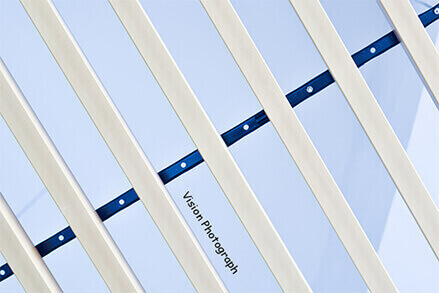
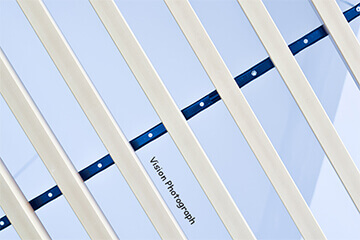
compress pics & repair js

diff --git a/newCss/myCss.min.css b/newCss/myCss.min.css
@@ -1,0 +1,1 @@
+html,body,div,span,applet,object,iframe,h1,h2,h3,h4,h5,h6,p,blockquote,pre,a,abbr,acronym,address,big,cite,code,del,dfn,em,img,ins,kbd,q,s,samp,small,strike,strong,sub,sup,tt,var,b,u,i,center,dl,dt,dd,ol,ul,li,fieldset,form,label,legend,table,caption,tbody,tfoot,thead,tr,th,td,article,aside,canvas,details,embed,figure,figcaption,footer,header,hgroup,menu,nav,output,ruby,section,summary,time,mark,audio,video{margin:0;padding:0;border:0;font-size:100%;font:inherit;vertical-align:baseline}article,aside,details,figcaption,figure,footer,header,hgroup,menu,nav,section{display:block}body{line-height:1}ol,ul{list-style:none}blockquote,q{quotes:none}blockquote:before,blockquote:after,q:before,q:after{content:'';content:none}table{border-collapse:collapse;border-spacing:0}a,a:link,a:hover,a:active{text-decoration:none}*{margin:0;padding:0}html,body{width:100%;height:100%}body{font-family:"Microsoft JhengHei";font-size:100%;color:#999}@keyframes moreMove{0%{bottom:27px}35%{bottom:43px}40%{bottom:37px}90%{bottom:23px}98%{bottom:25px}99%{bottom:26px}100%{bottom:27px}}@keyframes showMask{0%{opacity:0}100%{opacity:1}}.none{display:none}.blur{-webkit-filter:blur(10px);-moz-filter:blur(10px);-o-filter:blur(10px);-ms-filter:blur(10px);filter:blur(10px)}#toTop{display:none;text-decoration:none;position:fixed;bottom:20px;right:2%;overflow:hidden;z-index:999;width:57px;height:67px;border:none;text-indent:100%;background-image:url(../newPicture/myCss2.png);background-position:0 -368px;background-repeat:no-repeat;animation-name:moreMove;-webkit-animation-name:moreMove;animation-duration:1.5s;-webkit-animation-duration:1.5s;animation-fill-mode:both;-webkit-animation-fill-mode:both;animation-iteration-count:infinite;-webkit-animation-iteration-count:infinite}#toTop #toTopHover{width:100%;height:100%;display:block;overflow:hidden;float:right;opacity:0;-moz-opacity:0;filter:alpha(opacity=0)}.container{width:1404px}#header{width:100%;float:left;background-color:#fff;position:relative}#header .topbar{padding:23px 0 13px;color:#2ea7c9;z-index:999}#header .topbar .navbar-left{position:relative;float:left}#header .topbar .navbar-left .nav_logo{width:48px;height:48px;display:block}#header .topbar .navbar-left .nav_logo img{width:100%;height:100%}#header .topbar .navbar-left .rixin_desc{position:absolute;left:60px;top:0;width:52px}#header .topbar .navbar-left .rixin_desc .rixin_name{font-size:25px;margin-top:5px}#header .topbar .navbar-left .rixin_desc .rixin_name2{font-size:15px;margin-left:3px}#header .topbar .navbar-right{position:relative;margin-right:0;float:right !important}#header .topbar .navbar-right .menu{position:relative;display:block;color:#2ea7c9}#header .topbar .navbar-right .menu .nav_menu{font-size:30px;display:inline-block;float:left;margin-top:11px;margin-right:86px}#header .topbar .navbar-right .menu .nav_pub{position:absolute;display:inline-block;right:0;top:20px;width:38px;height:6px;border-radius:7px;background:#2ea7c9;-webkit-transition:all .3s ease;-moz-transition:all .3s ease;-o-transition:all .3s ease;transition:all .3s ease}#header .topbar .navbar-right .menu .nav_pub:before,#header .topbar .navbar-right .menu .nav_pub:after{position:absolute;display:inline-block;left:0;width:38px;height:6px;border-radius:7px;content:'';background:#2ea7c9;-webkit-transition:all .3s ease;-moz-transition:all .3s ease;-o-transition:all .3s ease;transition:all .3s ease;-webkit-transform-origin:5px center 0;-moz-transform-origin:5px center 0;-o-transform-origin:5px center 0;transform-origin:5px center 0}#header .topbar .navbar-right .menu .nav_pub:before{top:-12px}#header .topbar .navbar-right .menu .nav_pub:after{top:12px}#header .topbar .navbar-right .menu img{height:32px;width:38px;display:inline-block;float:left;margin-top:8px}#header .topbar .navbar-right .closer{opacity:1;-moz-opacity:1;-webkit-opacity:1;filter:alpha(opacity=100);-ms-filter:"alpha(opacity=100)"}#header .topbar .navbar-right .closer:hover .nav_pub{opacity:1;-moz-opacity:1;-webkit-opacity:1;filter:alpha(opacity=100);-ms-filter:"alpha(opacity=100)";-webkit-transform-origin:center 4px;-webkit-transform:rotate(180deg);-moz-transform:rotate(180deg);-ms-transform:rotate(180deg);-o-transform:rotate(180deg);transform:rotate(180deg);-webkit-transition:all .3s ease;-moz-transition:all .3s ease;-o-transition:all .3s ease;transition:all .3s ease}#header .topbar .navbar-right .closer .nav_pub{height:0}#header .topbar .navbar-right .closer .nav_pub:after{position:absolute;left:-5px;top:0;width:48px;-webkit-transform-origin:center center 0;-moz-transform-origin:center center 0;-ms-transform-origin:center center 0;-o-transform-origin:center center 0;transform-origin:center center 0;-webkit-transition:all .5s ease;-moz-transition:all .5s ease;-o-transition:all .5s ease;transition:all .5s ease;-webkit-transform:rotate(-45deg);-moz-transform:rotate(-45deg);-o-transform:rotate(-45deg);transform:rotate(-45deg)}#header .topbar .navbar-right .closer .nav_pub:before{position:absolute;left:-5px;top:0;width:48px;-webkit-transform-origin:center center 0;-moz-transform-origin:center center 0;-ms-transform-origin:center center 0;-o-transform-origin:center center 0;transform-origin:center center 0;-webkit-transform:rotate(45deg);-moz-transform:rotate(45deg);-o-transform:rotate(45deg);transform:rotate(45deg);-webkit-transition:all .5s ease;-moz-transition:all .5s ease;-o-transition:all .5s ease;transition:all .5s ease}#header .navbar-gray{background-color:#fbfbfb;color:#838383;border:1px solid #e9e9e9;margin-bottom:0}#header .navbar-gray .navbar-header .icon-bar{background-color:#2ea7c9}#header .navbar-gray .navbar-header .logo_slide{width:1.875rem;height:1.875rem;float:left;margin-top:-0.3rem;display:inline-block}#header .navbar-gray .navbar-header .rixin_name{float:left;margin-left:4px}#header .navbar-gray #navbar li{border-left:1px solid #e9e9e9}#header .navbar-gray #navbar li:last-child{border-right:1px solid #e9e9e9}#header .navbar-gray #navbar li a{color:#838383;font-size:1.3rem;font-weight:bold;padding:1.5rem 1.75rem}#header .hot_img{width:100%;height:24.75rem;position:relative}#header .hot_img .bg{width:100%;height:100%;position:absolute;top:0;left:0}#header .hot_img .motto{width:34.56rem;height:4.06rem;position:absolute;top:50%;left:50%;transform:translate(-50%, -50%)}#news{float:left;width:100%;background-color:#fff}#news .nav{width:41.5rem;margin:3.87rem auto 5.94rem}#news .nav li{float:left;font-size:1.5rem;font-weight:bold;padding:14px 60px;border-right:1px solid #48c5eb}#news .nav li a,#news .nav li:link{color:#999;background-color:transparent;padding:0}#news .nav li a:hover,#news .nav li:link:hover,#news .nav li a:active,#news .nav li:link:active{background-color:transparent;color:#2ea7c9}#news .nav li:last-child{border-right:0}#news .nav .active a{color:#2ea7c9}#news .content{font-size:1.13rem;color:#999;width:100%;float:left}#news .content .part{float:left;margin-bottom:7.375rem}#news .content .part .part_no{font-size:3.43rem;color:#2ea7c9;float:left;width:17%;text-align:right}#news .content .part .part_content{float:left;margin-left:8%;width:75%}#news .content .part .part_content h2{font-size:1.25rem;float:left;font-weight:bold}#news .content .part .part_content h2 a{color:#838383;padding:0}#news .content .part .part_content h2 a:hover{background-color:transparent;color:#064665}#news .content .part .part_content h2 .part_no2{display:none}#news .content .part .part_content ul{float:left;width:100%;margin-top:1.85rem}#news .content .part .part_content ul li{width:100%}#news .content .part .part_content ul li a{display:block;padding:.43rem 0;color:#999;overflow-x:hidden;white-space:nowrap;text-overflow:ellipsis}#news .content .part .part_content ul li a:hover{color:#064665;-webkit-transition:all .3s ease;-moz-transition:all .3s ease;-o-transition:all .3s ease;transition:all .3s ease}#news .content .part .part_content ul li i{width:10px;height:10px;display:block;float:left;margin:4px 15px auto auto;border-radius:50%;border:1px solid #48c5eb;background-color:#fff}#news .content .part .part_content ul li a:visited i{background-color:#48c5eb}#tushuo{width:100%;float:left}#tushuo .pic{width:20%;height:15rem;float:left;overflow:hidden}#tushuo .pic img{width:100%;height:100%}#tushuo .pic img:hover{transform:scale(1.2);-webkit-filter:brightness(.5);-o-filter:brightness(.5);-moz-filter:brightness(.5);filter:brightness(.5);-webkit-transition:all .7s ease;-moz-transition:all .7s ease;-o-transition:all .7s ease;transition:all .7s ease}#tushuo .pic_more{position:relative;background-color:#2ea7c9}#tushuo .pic_more .more{display:block;width:7.5rem;font-size:1.875rem;color:#fff;position:absolute;left:50%;top:50%;transform:translate(-50%, -50%)}#tushuo .pic_more:hover{background-color:#1c6579;-webkit-transition:all .4s ease;-moz-transition:all .4s ease;-o-transition:all .4s ease;transition:all .4s ease}#moreNews{width:100%;float:left}#moreNews h1{font-size:3.5rem;color:#2ea7c9;text-align:center;margin:4rem auto 5rem}#moreNews .content{width:100%;float:left;margin-bottom:5rem;font-size:1.13rem}#moreNews .content .part{margin-bottom:2.3rem}#moreNews .content .part .icon{width:5.125rem;height:5.125rem;float:left;background-position:center center;background-repeat:no-repeat;margin:auto 2rem auto 2.5rem;position:relative}#moreNews .content .part .icon1{background-color:#97cb6f}#moreNews .content .part .icon1 .innerpic{position:absolute;width:49px;height:41px;left:50%;top:50%;transform:translate(-50%, -50%);background-image:url(../newPicture/myCss2.png);background-position:-188px -362px;background-repeat:no-repeat}#moreNews .content .part .icon2{background-color:#b88ccf}#moreNews .content .part .icon2 .innerpic{position:absolute;width:49px;height:47px;left:50%;top:50%;transform:translate(-50%, -50%);background-image:url(../newPicture/myCss2.png);background-position:-184px -313px;background-repeat:no-repeat}#moreNews .content .part .icon3{background-color:#ff953a}#moreNews .content .part .icon3 .innerpic{position:absolute;width:45px;height:51px;left:50%;top:50%;transform:translate(-50%, -50%);background-image:url(../newPicture/myCss2.png);background-position:-184px -260px;background-repeat:no-repeat}#moreNews .content .part .icon4{background-color:#6ac7c1}#moreNews .content .part .icon4 .innerpic{position:absolute;width:52px;height:40px;left:50%;top:50%;transform:translate(-50%, -50%);background-image:url(../newPicture/myCss2.png);background-position:-188px -405px;background-repeat:no-repeat}#moreNews .content .part .part_content{float:left;width:76%;height:5.125rem;position:relative}#moreNews .content .part .part_content h2{color:#838383;font-size:1.25rem;font-weight:bold;float:left;margin-left:1.5rem}#moreNews .content .part .part_content .more{display:block;float:right;color:#838383;font-size:1.25rem;font-weight:bold}#moreNews .content .part .part_content .more:hover{text-decoration:underline;-webkit-transition:all .4s ease;-moz-transition:all .4s ease;-o-transition:all .4s ease;transition:all .4s ease}#moreNews .content .part .part_content ul{position:absolute;left:0;bottom:0;width:100%}#moreNews .content .part .part_content ul li{width:100%}#moreNews .content .part .part_content ul li a{display:block;padding-top:.7rem;overflow:hidden;white-space:nowrap;text-overflow:ellipsis;color:#999}#moreNews .content .part .part_content ul li a:hover{color:#064665;-webkit-transition:all .3s ease;-moz-transition:all .3s ease;-o-transition:all .3s ease;transition:all .3s ease}#moreNews .content .part .part_content ul li i{width:10px;height:10px;display:block;float:left;margin:4px 15px auto auto;background-repeat:no-repeat;background-size:cover}#moreNews .content .part .part_content ul li .i1{border-radius:50%;border:1px solid #97cb6f}#moreNews .content .part .part_content ul li .i2{border-radius:50%;border:1px solid #b88ccf}#moreNews .content .part .part_content ul li .i3{border-radius:50%;border:1px solid #ff953a}#moreNews .content .part .part_content ul li .i4{border-radius:50%;border:1px solid #6ac7c1}#wechat{float:left;width:100%;height:470px;background-color:#f3f3f3;position:relative}#wechat .wrapper{width:1032px;height:380px;overflow:hidden;position:absolute;bottom:0;right:13.9%}#wechat .wrapper .iphone{width:328px;float:left;margin-left:173px}#wechat .wrapper .iphone2{display:none;margin-top:8.3rem}#wechat .wrapper .content{float:right;width:356px}#wechat .wrapper h1{font-size:46px;font-size:2.93rem;line-height:97px;line-height:6.125rem;color:#686868}#wechat .wrapper .btns{margin:40px 50px auto 42px;position:relative}#wechat .wrapper .btns a{display:block;width:64px;height:64px}#wechat .wrapper .btns .sina_btn{float:left;background-image:url(../newPicture/myCss2.png);background-position:-59px -368px;background-repeat:no-repeat}#wechat .wrapper .btns .sina_btn:hover{background-image:url(../newPicture/myCss2.png);background-position:-123px -368px;background-repeat:no-repeat}#wechat .wrapper .btns .qq_btn{margin:0 auto;background-image:url(../newPicture/myCss2.png);background-position:-184px 0;background-repeat:no-repeat}#wechat .wrapper .btns .qq_btn:hover{background-image:url(../newPicture/myCss2.png);background-position:-184px -65px;background-repeat:no-repeat}#wechat .wrapper .btns .wechat_btn{position:absolute;right:0;top:0;background-image:url(../newPicture/myCss2.png);background-position:-184px -130px;background-repeat:no-repeat}#wechat .wrapper .btns .wechat_btn:hover{background-image:url(../newPicture/myCss2.png);background-position:-184px -195px;background-repeat:no-repeat}#wechat .wrapper .sina,#wechat .wrapper .qq,#wechat .wrapper .wechat{display:none;width:620px;float:left}#wechat .wrapper .qq{margin-left:30px}#wechat .wrapper .wechat{margin-left:-5px}#wechat .btns .sina_btn:hover .sina{display:block}#service{width:100%;float:left;background-color:#f6f6f6}#service .container{height:100%;position:relative}#service .row{height:100%;padding-bottom:133px}#service h1{font-size:3.7rem;color:#99a0a5;display:block;margin-top:77px;margin-bottom:125px}#service h1 .h1_sub{display:inline-block;margin-left:10px}#service .h1_sub .pic{width:100px;height:20px;background-image:url(../newPicture/myCss2.png);background-position:-59px -433px}#service .searchCurriculum a,#service .PE a,#service .wordType a,#service .ershou a,#service .lecture a,#service .post a,#service .searchGrade a,#service .evaluate a{display:block;width:118px;height:212px;position:relative;float:right}#service .pic1{display:inline-block;width:90px;height:92px;float:right;background-repeat:no-repeat;transform:scale(1.2)}#service .name{display:block;float:left;margin-left:35px;height:64px;line-height:64px;color:#999;font-size:20px}#service .searchCurriculum .name,#service .searchGrade .name{margin-left:40px}#service .searchCurriculum,#service .PE,#service .wordType,#service .ershou,#service .lecture,#service .post,#service .searchGrade,#service .evaluate{margin-left:5%}#service .searchCurriculum .pic1{opacity:.9;background-image:url(../newPicture/myCss2.png);background-position:0 0;background-repeat:no-repeat;-webkit-transition:all .4s ease;-moz-transition:all .4s ease;-o-transition:all .4s ease;transition:all .4s ease}#service .PE .pic1{opacity:.9;-webkit-transition:all .4s ease;-moz-transition:all .4s ease;-o-transition:all .4s ease;transition:all .4s ease;background-image:url(../newPicture/myCss2.png);background-position:0 -92px;background-repeat:no-repeat}#service .wordType .pic1{opacity:.9;-webkit-transition:all .4s ease;-moz-transition:all .4s ease;-o-transition:all .4s ease;transition:all .4s ease;background-image:url(../newPicture/myCss2.png);background-position:0 -184px;background-repeat:no-repeat}#service .ershou .pic1{opacity:.9;-webkit-transition:all .4s ease;-moz-transition:all .4s ease;-o-transition:all .4s ease;transition:all .4s ease;background-image:url(../newPicture/myCss2.png);background-position:0 -276px;background-repeat:no-repeat}#service .lecture .pic1{opacity:.9;-webkit-transition:all .4s ease;-moz-transition:all .4s ease;-o-transition:all .4s ease;transition:all .4s ease;background-image:url(../newPicture/myCss2.png);background-position:-92px 0;background-repeat:no-repeat}#service .post .pic1{opacity:.9;-webkit-transition:all .4s ease;-moz-transition:all .4s ease;-o-transition:all .4s ease;transition:all .4s ease;background-image:url(../newPicture/myCss2.png);background-position:-92px -92px;background-repeat:no-repeat}#service .searchGrade .pic1{opacity:.9;-webkit-transition:all .4s ease;-moz-transition:all .4s ease;-o-transition:all .4s ease;transition:all .4s ease;background-image:url(../newPicture/myCss2.png);background-position:-92px -184px;background-repeat:no-repeat}#service .evaluate .pic1{opacity:.8;-webkit-transition:all .4s ease;-moz-transition:all .4s ease;-o-transition:all .4s ease;transition:all .4s ease;background-image:url(../newPicture/myCss2.png);background-position:-92px -276px;background-repeat:no-repeat}#service .searchCurriculum a:hover .pic1,#service .PE a:hover .pic1,#service .wordType a:hover .pic1,#service .ershou a:hover .pic1,#service .lecture a:hover .pic1,#service .post a:hover .pic1,#service .searchGrade a:hover .pic1,#service .evaluate a:hover .pic1{opacity:1;-webkit-transition:all .5s ease;-moz-transition:all .5s ease;-o-transition:all .5s ease;transition:all .5s ease}#service .searchCurriculum a:hover .name,#service .PE a:hover .name,#service .wordType a:hover .name,#service .ershou a:hover .name,#service .lecture a:hover .name,#service .post a:hover .name,#service .searchGrade a:hover .name,#service .evaluate a:hover .name{color:#555;transform:scale(1.1);-webkit-transition:all .5s ease;-moz-transition:all .5s ease;-o-transition:all .5s ease;transition:all .5s ease}#service .more{position:absolute;font-size:32px;font-size:2rem;color:#d0d0d0;right:220px;bottom:50px;-webkit-transition:all .4s ease;-moz-transition:all .4s ease;-o-transition:all .4s ease;transition:all .4s ease}#service .more:hover{color:#2ea7c9}#map{float:left;width:100%;height:426px;position:relative}#map .wrapper{width:100%;height:100%;float:left;background:url(../newPicture/map.jpg);background-size:cover;background-repeat:no-repeat;-webkit-transition:all .3s ease;-moz-transition:all .3s ease;-o-transition:all .3s ease;transition:all .3s ease}#map .content{float:left;position:absolute;left:50%;-webkit-transform:translate(-50%, 0);-moz-transform:translate(-50%, 0);-o-transform:translate(-50%, 0);transform:translate(-50%, 0);margin:95px auto auto}#map .content h1{font-size:70px;font-size:4.375rem;font-weight:bold;color:#fff;text-indent:11px;text-align:center}#map .content a{display:block;width:170px;height:55px;margin:97px auto auto;line-height:55px;text-align:center;border:0;border-radius:6px;background-color:#2ea7c9;color:#fff;font-size:17px;-webkit-transition:all .3s ease;-moz-transition:all .3s ease;-o-transition:all .3s ease;transition:all .3s ease}#map .content a:hover{background-color:#1a83a0}#map2{width:100%;height:100%;position:fixed;display:none;z-index:99999;top:0;left:0;background-color:rgba(11,11,11,0.73)}#map2 .map_close{display:block;position:absolute;right:50px;top:50px;width:70px;height:70px;z-index:9999;font-size:48px;font-size:3rem}#map2 .map_close img{width:100%;height:100%}#map2 .map_close:hover{-webkit-transition:all .5s ease;-moz-transition:all .5s ease;-o-transition:all .5s ease;transition:all .5s ease;-webkit-transform:scale(1.1);-moz-transform:scale(1.1);-o-transform:scale(1.1);transform:scale(1.1)}#map2 .map_logo{width:100px;height:100px;position:absolute;right:50px;bottom:50px}#map2 .old_img{position:absolute;height:80%;left:50%;top:50%;transform:translate(-50%, -50%);background-repeat:no-repeat;background-size:cover}#map2 .zoomy{position:absolute;width:300px;height:300px;display:none;background-repeat:no-repeat;-webkit-box-shadow:3px 3px 10px #000;-moz-box-shadow:3px 3px 10px #000;border:0;line-height:100px;text-align:center;background-position:center;background-color:#fff;z-index:1000}#map3{width:100%}#footer{width:100%;float:left;background-color:#2b2e37}#footer .row{padding-top:40px}#footer .links{width:564px;padding-bottom:23px;float:left}#footer .links label{width:100%;font-size:30px;font-size:1.875rem;color:#bfc0c2;padding-bottom:23px;border-bottom:4px solid #e5e5e5}#footer .links .content{float:left;padding-top:24px;width:100%}#footer .links .content li{font-size:20px;font-size:1.25rem;line-height:40px;line-height:2.5rem;float:left;margin-right:33px}#footer .links .content li a{color:#bfc0c2;-webkit-transition:all .4s ease;-moz-transition:all .4s ease;-o-transition:all .4s ease;transition:all .4s ease}#footer .links .content li a:hover{color:#2ea7c9}#footer .copyright{color:#bfc0c2;text-align:center;font-size:20px;font-size:1.25rem;line-height:40px;line-height:2.5rem;margin-bottom:50px}@media (max-width:1450px){.container{width:1060px}#header .topbar .navbar-left .nav_logo{width:38px;height:38px}#header .topbar .navbar-left .rixin_desc{left:50px;width:42px}#header .topbar .navbar-left .rixin_desc .rixin_name{font-size:20px;margin-top:5px}#header .topbar .navbar-left .rixin_desc .rixin_name2{font-size:13px;margin-left:3px}#header .topbar .navbar-right .menu .nav_menu{font-size:25px;margin-top:11px;margin-right:56px}#header .topbar .navbar-right .menu .nav_pub{right:0;top:20px;width:35px;height:6px;border-radius:7px}#header .topbar .navbar-right .menu .nav_pub:before,#header .topbar .navbar-right .menu .nav_pub:after{left:0;width:35px;height:6px;border-radius:7px}#header .topbar .navbar-right .menu .nav_pub:before{top:-12px}#header .topbar .navbar-right .menu .nav_pub:after{top:12px}#header .navbar-gray #navbar li a{font-size:1rem;font-weight:bold;padding:.9rem 1.56rem}#header .hot_img{height:18.75rem}#header .hot_img .motto{width:34.56rem;height:4.06rem}#tushuo .pic{height:11rem}#tushuo .pic_more .more{font-size:1.5rem}#news .nav{width:31.5rem;margin:3rem auto 4.56rem}#news .nav li{font-size:1.06rem;padding:14px 48px}#news .content{font-size:1rem}#news .content .part{margin-bottom:5rem}#news .content .part .part_no{width:10%;font-size:2.5rem}#news .content .part .part_content{width:82%}#news .content .part .part_content h2{font-size:1rem}#news .content .part .part_content ul{margin-top:1.1rem}#news .content .part .part_content ul li a{padding:.25rem 0}#news .content .part .part_content ul li a i{width:7px;height:7px;margin:5px 15px auto auto}#moreNews h1{font-size:2.625rem;margin:3.25rem auto 3.75rem}#moreNews .content{margin-bottom:3rem;font-size:.9rem}#moreNews .content .part{margin-bottom:1.6rem}#moreNews .content .part .icon{width:4rem;height:4rem;margin:auto 1.5rem auto 0}#moreNews .content .part .icon .innerpic{transform:translate(-50%, -50%) scale(.8)}#moreNews .content .part .part_content h2{font-size:1rem;margin-left:1rem}#moreNews .content .part .part_content .more{font-size:1rem}#moreNews .content .part .part_content ul{height:4rem;padding-left:1rem}#moreNews .content .part .part_content ul li a{padding-top:.7rem}#moreNews .content .part .part_content ul li a i{width:7px;height:7px;margin:3px 10px auto auto}#map{height:322px}#map .content{margin:95px auto auto}#map .content h1{font-size:50px;font-size:3.125rem;text-indent:20px}#map .content a{width:128px;height:40px;line-height:40px;margin:50px auto auto}#wechat{height:356px}#wechat .wrapper{width:781px;height:280px}#wechat .wrapper .iphone{width:248px;margin-left:130px}#wechat .wrapper .content{width:280px}#wechat .wrapper h1{font-size:36px;font-size:2.31rem;line-height:74px;line-height:4.625rem}#wechat .wrapper .sina,#wechat .wrapper .qq,#wechat .wrapper .wechat{width:470px}#wechat .wrapper .qq{margin-left:22px}#wechat .wrapper .btns{margin:20px 40px auto 32px}#wechat .wrapper .btns a{transform:scale(.8)}#service h1{font-size:50px;font-size:3.125rem;margin-top:50px}#service .row{padding-bottom:107px}#service .name{margin-left:13px;height:54px;line-height:54px;font-size:18px;font-size:1rem}#service h1{margin-bottom:95px}#service .searchCurriculum .name,#service .searchGrade .name{margin-left:20px}#service .searchCurriculum a,#service .PE a,#service .wordType a,#service .ershou a,#service .lecture a,#service .post a,#service .searchGrade a,#service .evaluate a{width:90px;height:170px}#service .lecture .name{height:43px}#service .pic1{transform:scale(.95)}#service .exam .pic1{width:110px;height:40px;margin-top:39px}#service .more{font-size:28px;font-size:1.5rem;right:170px}#footer .links{width:440px}#footer .links label{font-size:1.5rem;border-bottom:2px solid #e5e5e5}#footer .links .content li{font-size:1rem;line-height:2rem;margin-right:30px}#footer .copyright{font-size:1rem;line-height:2rem;margin-bottom:30px}}@media (max-width:1199px){.container{width:900px}}@media (max-width:991px){.container{width:744px}#nav ul li{height:12%}#nav ul li:nth-child(1){margin-top:15%}#nav ul li:nth-child(5){margin-top:5%}#tushuo .pic{width:25%;height:9rem}#tushuo .pic_more .more{width:5rem;font-size:1.1rem}#moreNews .content .part .icon{margin:auto 1.5rem auto 4rem}#moreNews .content .part .part_content{width:70%}#service .searchCurriculum,#service .PE,#service .wordType,#service .ershou,#service .lecture,#service .post,#service .searchGrade,#service .evaluate{margin-left:0}#footer .links{width:100%}}@media (max-width:767px){.container{width:360px}.navbar-toggle{margin-right:0}#header .navbar-gray .navbar-brand{width:120px;height:50px;padding:10px 15px}#header .navbar-gray .navbar-brand .logo_slide{margin-top:0;float:left}#header .navbar-gray .navbar-brand .rixin_desc{width:50px;float:left;margin-left:.3rem}#header .navbar-gray .navbar-brand .rixin_desc .rixin_name{font-size:1.06rem;float:left;margin-left:0}#header .navbar-gray .navbar-brand .rixin_desc .rixin_name2{font-size:.9rem;line-height:.9rem;float:left;margin-left:3px}#header .hot_img{height:12.5rem}#header .hot_img .motto{width:80%;height:auto}#news .nav{width:100%;margin:2.5rem auto 1.7rem}#news .nav li{padding:14px 25px}#news .content .part{margin-bottom:3rem}#news .content .part .part_content{width:94%;margin-left:4%}#news .content .part .part_content h2 .part_no2{display:inline-block;margin-right:1rem;color:#2ea7c9;font-size:1.13rem}#tushuo{padding:0 10px}#tushuo .pic{width:50%}#moreNews h1{font-size:1.625rem;margin:2rem auto 1rem}#moreNews .content{margin-bottom:1rem}#moreNews .content .part{margin:.8rem auto}#moreNews .content .part:nth-child(1) h2{color:#97cb6f}#moreNews .content .part:nth-child(2) h2{color:#b88ccf}#moreNews .content .part:nth-child(3) h2{color:#ff953a}#moreNews .content .part:nth-child(4) h2{color:#6ac7c1}#moreNews .content .part .icon{margin:auto 1.5rem auto 4rem}#moreNews .content .part .part_content{width:100%}#moreNews .content .part .part_content h2{margin-left:0}#moreNews .content .part .part_content ul{padding-left:0;border-bottom:1px solid #ddd}#moreNews .content .part:nth-child(4) ul{border-bottom:0}#wechat{height:280px;overflow:hidden}#wechat .wrapper{top:2.4rem;bottom:auto;height:auto}#wechat .wrapper .content{width:200px;margin-right:1.7rem}#wechat .wrapper .content h1{font-size:1.6rem;line-height:2rem}#wechat .wrapper .content .btns{margin:0 35px auto 15px}#wechat .wrapper .content .btns a{transform:scale(.5)}#wechat .wrapper .iphone,#wechat .wrapper .sina,#wechat .wrapper .qq,#wechat .wrapper .wechat{opacity:0}#wechat .wrapper .iphone2{width:140px;float:right;margin:-25px 70px auto auto;display:block;transform:scale(.7)}#wechat .wrapper .sina2,#wechat .wrapper .qq2,#wechat .wrapper .wechat2{width:270px;float:right;margin-top:-25px;margin-right:10px;display:none;transform:scale(.7)}#wechat .wrapper .qq2{margin-right:0}#service .row{padding-bottom:17px}#service h1{font-size:1.625rem;margin:2.2rem auto 1rem 1rem}#service .name{height:30px;line-height:30px}#service .searchCurriculum,#service .PE,#service .wordType,#service .ershou,#service .lecture,#service .post,#service .searchGrade,#service .evaluate{margin-left:5%}#service .searchCurriculum a,#service .PE a,#service .wordType a,#service .ershou a,#service .lecture a,#service .post a,#service .searchGrade a,#service .evaluate a{float:inherit;left:50%;height:130px;transform:translateX(-50%) scale(.8)}#service .more{right:auto;left:50%;transform:translateX(-50%)}#service .more:hover{transform:translateX(-50%)}#map{height:160px}#map .content{width:90%;margin:45px auto auto}#map .content h1{font-size:1.6rem}#map .content a{font-size:.7rem;width:90px;height:28px;line-height:28px;margin:16px auto auto}#footer .row{padding-top:25px}#footer .row .links{padding-bottom:13px}#footer .row .links label{font-size:1rem;border-bottom:1px solid #e5e5e5;padding-bottom:13px}#footer .row .links .content{padding-top:5px}#footer .row .links .content li{font-size:.7rem;line-height:1.2rem;margin-right:20px}#footer .row .copyright{font-size:.7rem;line-height:1.2rem;margin-bottom:30px}#toTop{transform:scale(.8)}}

diff --git a/newCss/myCss.less b/newCss/myCss.less
@@ -560,6 +560,7 @@ body {
               margin: 4px 15px auto auto;
               border-radius:50%;
               border:1px solid #48C5EB; 
+              background-color: #fff;
             }
             a:visited i{
               background-color: #48C5EB;
@@ -791,6 +792,7 @@ body {
 }
 #wechat .wrapper .iphone2{
   display: none;
+  margin-top: 8.3rem;//50px solve 
 }
 #wechat .wrapper .content {
   float: right;
@@ -1408,13 +1410,6 @@ body {
       transform: scale(0.8);
     }
   }
-  /*#wechat .wrapper .readmore {
-    width: 195px;
-    height: 65px;
-    line-height: 65px;
-    font-size: 1.25rem;
-    box-shadow: -3px 3px 6px 1px #cbcbcb;
-  }*/
   #service h1 {
     font-size: 50px;
     font-size: 3.125rem;
@@ -1612,17 +1607,6 @@ body {
       width: 50%;
     } 
   }   
-  // #moreNews{
-  //   h1{
-  //     font-size: 1.625rem;
-  //     margin: 2rem auto 1.25rem;
-  //   }
-  //   .content .part{
-    
-  //   .part_content {
-  //     width: 100%;
-  //   } 
-  // } 
   #moreNews{
     h1{
        font-size: 1.625rem;
@@ -1788,6 +1772,4 @@ body {
     transform: scale(0.8);
   }
 }
-#CssGaga {
-  content: "160924170429,usr,334";
-}
+

diff --git a/newCss/myCss.css b/newCss/myCss.css
@@ -555,6 +555,7 @@ body {
   margin: 4px 15px auto auto;
   border-radius: 50%;
   border: 1px solid #48C5EB;
+  background-color: #fff;
 }
 #news .content .part .part_content ul li a:visited i {
   background-color: #48C5EB;
@@ -798,6 +799,7 @@ body {
 }
 #wechat .wrapper .iphone2 {
   display: none;
+  margin-top: 8.3rem;
 }
 #wechat .wrapper .content {
   float: right;
@@ -1472,13 +1474,6 @@ body {
       height: 44px; */
     transform: scale(0.8);
   }
-  /*#wechat .wrapper .readmore {
-    width: 195px;
-    height: 65px;
-    line-height: 65px;
-    font-size: 1.25rem;
-    box-shadow: -3px 3px 6px 1px #cbcbcb;
-  }*/
   #service h1 {
     font-size: 50px;
     font-size: 3.125rem;
@@ -1830,7 +1825,4 @@ body {
   #toTop {
     transform: scale(0.8);
   }
-}
-#CssGaga {
-  content: "160924170429,usr,334";
 }

diff --git a/newJs/index.js b/newJs/index.js
@@ -75,6 +75,7 @@ hoverDisplayBlock start
 		$(outTrigger).bind("mouseover", function(){
 			$(target).css("display","none");
 			$(target).siblings('.iphone').fadeIn("1000");
+			$(target).siblings('.iphone2').fadeIn("1000");
 		})
 	}
 	hoverDisplayBlock(".qq_btn",".qq, .qq2","#map,#service");
